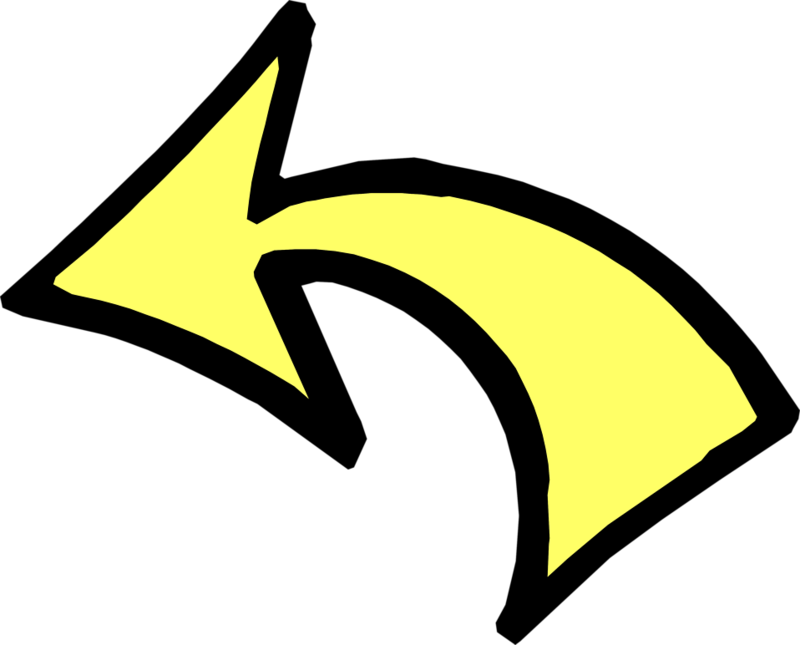
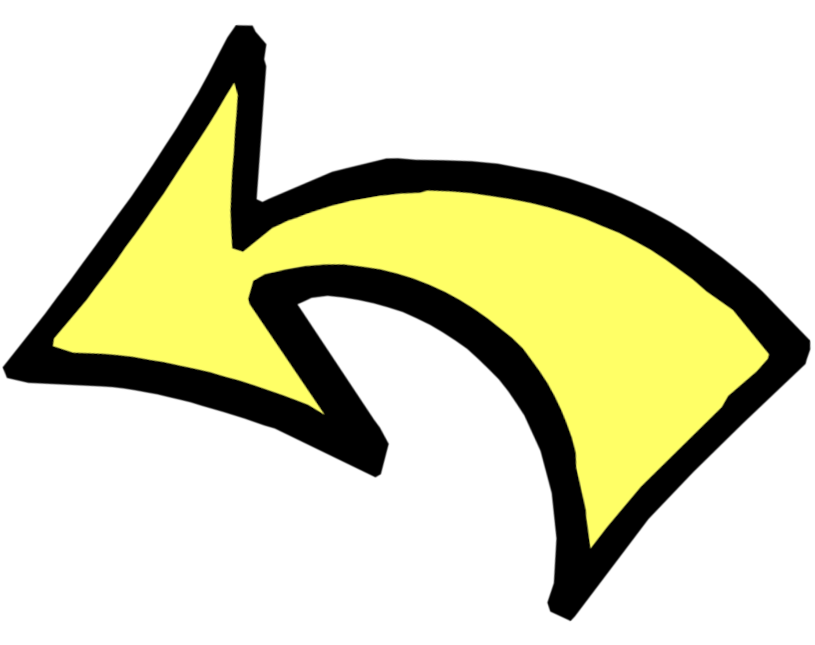
surface level accessibility reqs

diff --git a/angular/src/app/home/home.component.css b/angular/src/app/home/home.component.css
@@ -91,7 +91,8 @@ hr {
     background: url(../../../public/buttons/plants.png) no-repeat center center;
 }
 
-.plants:hover {
+.plants:hover,
+.plants:focus {
     background: url(../../../public/buttons/plants-hover.png) no-repeat center center;
     cursor: pointer;
 }
@@ -100,7 +101,8 @@ hr {
     background: url(../../../public/buttons/herbicide.png) no-repeat center center;
 }
 
-.herbicides:hover {
+.herbicides:hover,
+.herbicides:focus {
     background: url(../../../public/buttons/herbicide-hover.png) no-repeat center center;
     cursor: pointer;
 }
@@ -109,7 +111,8 @@ hr {
     background: url(../../../public/buttons/insects.png) no-repeat center center;
 }
 
-.insects:hover {
+.insects:hover,
+.insects:focus {
     background: url(../../../public/buttons/insects-hover.png) no-repeat center center;
     cursor: pointer;
 }
@@ -118,7 +121,8 @@ hr {
     background: url(../../../public/buttons/insecticide.png) no-repeat center center;
 }
 
-.insecticides:hover {
+.insecticides:hover,
+.insecticides:focus {
     background: url(../../../public/buttons/insecticide-hover.png) no-repeat center center;
     cursor: pointer;
 }
@@ -127,7 +131,8 @@ hr {
     background: url(../../../public/buttons/tools.png) no-repeat center center;
 }
 
-.tools:hover {
+.tools:hover,
+.tools:focus {
     background: url(../../../public/buttons/tools-hover.png) no-repeat center center;
     cursor: pointer;
 }
@@ -136,7 +141,8 @@ hr {
     background: url(../../../public/buttons/maintenance.png) no-repeat center center;
 }
 
-.maintenance:hover {
+.maintenance:hover,
+.maintenance:focus {
     background: url(../../../public/buttons/maintenance-hover.png) no-repeat center center;
     cursor: pointer;
 }

diff --git a/angular/src/app/home/home.component.html b/angular/src/app/home/home.component.html
@@ -4,22 +4,24 @@
 <div class="banner">
 </div>
 <div class="buttons">
-    <div class="button plants" (click)="onClick('plants')" tabindex="0">
+    <div class="button plants" (click)="onClick('plants')" (keyup.enter)="onClick('plants')" tabindex="0">
         <h2 class="button-text">Plants</h2>
     </div>
-    <div class="button herbicides" (click)="onClick('herbicides')" tabindex="0">
+    <div class="button herbicides" (click)="onClick('herbicides')" (keyup.enter)="onClick('herbicides')" tabindex="0">
         <h2 class="button-text">Herbicides</h2>
     </div>
-    <div class="button insects" (click)="onClick('insects')" tabindex="0">
+    <div class="button insects" (click)="onClick('insects')" (keyup.enter)="onClick('insects')" tabindex="0">
         <h2 class="button-text">Insects</h2>
     </div>
-    <div class="button insecticides" (click)="onClick('insecticides')" tabindex="0">
+    <div class="button insecticides" (click)="onClick('insecticides')" (keyup.enter)="onClick('insecticides')"
+        tabindex="0">
         <h2 class="button-text">Insecticides</h2>
     </div>
-    <div class="button maintenance" (click)="onClick('maintenance')" tabindex="0">
+    <div class="button maintenance" (click)="onClick('maintenance')" (keyup.enter)="onClick('maintenance')"
+        tabindex="0">
         <h2 class="button-text">Maintenance</h2>
     </div>
-    <div class="button tools" (click)="onClick('tools')" tabindex="0">
+    <div class="button tools" (click)="onClick('tools')" (keyup.enter)="onClick('tools')" tabindex="0">
         <h2 class="button-text">Tools</h2>
     </div>
 </div>

diff --git a/angular/src/app/pesticide/pesticide.component.html b/angular/src/app/pesticide/pesticide.component.html
@@ -1,5 +1,4 @@
-<img src="left-arrow.png" class="back-arrow" (click)="goBack()" alt="Back">
-
+<img src="left-arrow.png" class="back-arrow" tabindex="0" (click)="goBack()" (keyup.enter)="goBack()" alt="Back">
 
 <ng-container *ngIf="set404">
     <h2>404 Herbicide Not Found</h2>
@@ -12,7 +11,7 @@
 
 <ng-container *ngIf="!set404">
     <h2>{{currPesticide.name}}</h2>
-    <h3>{{currPesticide.taxonomy}}</h3>
+    <h3>{{currPesticide.chemical}}</h3>
     <div class="flex">
         <div class="description" [innerHTML]="currPesticide.description"></div>
         <img src="{{currPesticide.image}}" class="image">
@@ -25,6 +24,10 @@
             <app-rona-button [ronaLink]="currPesticide.ronaLink"></app-rona-button>
             <app-walmart-button [walmartLink]="currPesticide.walmartLink"></app-walmart-button>
         </div>
+    </div>
+
+    <div class="desktop">
+        <h4>Test</h4>
     </div>
 
     <cdk-accordion class="example-accordion">

diff --git a/angular/src/app/footer/footer.component.html b/angular/src/app/footer/footer.component.html
@@ -2,10 +2,10 @@
     <p class="copyright">©2025 Canadian Lawn Book | All rights reserved.</p>
 
     <div class="flex">
-        <p class="item" (click)="onClick('about')">About</p>
+        <p class="item" (click)="onClick('about')" (keyup.enter)="onClick('about')" tabindex="0">About</p>
         <div class="vl"></div>
-        <p class="item" (click)="onClick('contact')">Contact us</p>
+        <p class="item" (click)="onClick('contact')" (keyup.enter)="onClick('contact')" tabindex="0">Contact us</p>
         <div class="vl"></div>
-        <p class="item" (click)="onClick('sitemap')">Sitemap</p>
+        <p class="item" (click)="onClick('sitemap')" (keyup.enter)="onClick('sitemap')" tabindex="0">Sitemap</p>
     </div>
 </div>

diff --git a/angular/src/app/insecticide/insecticide.component.html b/angular/src/app/insecticide/insecticide.component.html
@@ -1,5 +1,4 @@
-<img src="left-arrow.png" class="back-arrow" (click)="goBack()" alt="Back">
-
+<img src="left-arrow.png" class="back-arrow" tabindex="0" (click)="goBack()" (keyup.enter)="goBack()" alt="Back">
 
 <ng-container *ngIf="set404">
     <h2>404 Insecticide Not Found</h2>
@@ -12,7 +11,7 @@
 
 <ng-container *ngIf="!set404">
     <h2>{{currInsecticide.name}}</h2>
-    <h3>{{currInsecticide.taxonomy}}</h3>
+    <h3>{{currInsecticide.chemical}}</h3>
     <div class="flex">
         <div class="description" [innerHTML]="currInsecticide.description"></div>
         <img src="{{currInsecticide.image}}" class="image">

diff --git a/angular/src/app/insecticide-index/insecticide-index.component.html b/angular/src/app/insecticide-index/insecticide-index.component.html
@@ -1,6 +1,7 @@
 <ng-container *ngFor="let insecticide of insecticides">
-    <div class="card" (click)="onCardClick(insecticide)">
-        <img src="{{ insecticide.image }}" alt="{{ insecticide.name }}" class="insecticide-image" />
+    <div class="card" (click)="onCardClick(insecticide)" (keyup.enter)="onCardClick(insecticide)" tabindex="0">
+        <img src="{{ insecticide.image }}" aria-label="" alt="Image of {{ insecticide.name }}"
+            class="insecticide-image" />
 
         <div>
             <h2>{{ insecticide.name }}</h2>

diff --git a/angular/src/app/pesticide-index/pesticide-index.component.html b/angular/src/app/pesticide-index/pesticide-index.component.html
@@ -1,6 +1,6 @@
 <ng-container *ngFor="let pesticide of pesticides">
-    <div class="card" (click)="onCardClick(pesticide)">
-        <img src="{{ pesticide.image }}" alt="{{ pesticide.name }}" class="pesticide-image" />
+    <div class="card" (click)="onCardClick(pesticide)" (keyup.enter)="onCardClick(pesticide)" tabindex="0">
+        <img src="{{ pesticide.image }}" aria-label="" alt="Image of {{ pesticide.name }}" class="pesticide-image" />
 
         <div>
             <h2>{{ pesticide.name }}</h2>

diff --git a/angular/src/app/index/index.component.html b/angular/src/app/index/index.component.html
@@ -1,6 +1,6 @@
 <ng-container *ngFor="let plant of plants">
-    <div class="card" (click)="onCardClick(plant)">
-        <img src="{{ plant.image }}" alt="{{ plant.name }}" class="plant-image" />
+    <div class="card" (click)="onCardClick(plant)" (keyup.enter)="onCardClick(plant)" tabindex="0">
+        <img src="{{ plant.image }}" aria-label="" alt="Image of {{ plant.name }}" class="plant-image" />
         <div>
             <h2>{{ plant.name }}</h2>
             <h3>{{ plant.taxonomy }}</h3>

diff --git a/angular/src/app/pesticide/pesticide.component.css b/angular/src/app/pesticide/pesticide.component.css
@@ -45,7 +45,6 @@ h3 {
     width: 50px;
     height: auto;
     position: absolute;
-    transform: rotate(-10deg);
 }
 
 .back-arrow:hover {
@@ -112,4 +111,16 @@ button {
     display: flex;
     flex-wrap: wrap;
     justify-content: center;
+}
+
+@media screen and (min-width: 1000px) {
+    .example-accordion {
+        display: none;
+    }
+}
+
+@media screen and (max-width: 1000px) {
+    .desktop {
+        display: none;
+    }
 }

diff --git a/angular/src/app/index/index.component.css b/angular/src/app/index/index.component.css
@@ -3,7 +3,8 @@
     display: flex;
 }
 
-.card:hover {
+.card:hover,
+.card:focus {
     background-color: #f0f0f0;
     cursor: pointer;
 }
@@ -29,7 +30,7 @@ h3 {
 }
 
 .description {
-    width: 99%;
+    width: 98.5%;
     font-size: 14pt;
     margin: 0px 0px 5px 10px;
     display: -webkit-box;
@@ -37,7 +38,6 @@ h3 {
     line-clamp: 3;
     -webkit-box-orient: vertical;
     overflow: hidden;
-    padding-right: 100px;
 }
 
 hr {

diff --git a/angular/src/app/tool-index/tool-index.component.css b/angular/src/app/tool-index/tool-index.component.css
@@ -3,7 +3,8 @@
     display: flex;
 }
 
-.card:hover {
+.card:hover,
+.card:focus {
     background-color: #f0f0f0;
     cursor: pointer;
 }
@@ -34,7 +35,7 @@ h3 {
 }
 
 .description {
-    width: 99%;
+    width: 98.5%;
     font-size: 14pt;
     margin: 0px 0px 5px 10px;
     display: -webkit-box;
@@ -42,7 +43,6 @@ h3 {
     line-clamp: 3;
     -webkit-box-orient: vertical;
     overflow: hidden;
-    padding-right: 100px;
 }
 
 hr {

diff --git a/angular/src/app/tool-index/tool-index.component.html b/angular/src/app/tool-index/tool-index.component.html
@@ -1,6 +1,6 @@
 <ng-container *ngFor="let tool of tools">
-    <div class="card" (click)="onCardClick(tool)">
-        <img src="{{ tool.image }}" alt="{{ tool.name }}" />
+    <div class="card" (click)="onCardClick(tool)" (keyup.enter)="onCardClick(tool)" tabindex="0">
+        <img src="{{ tool.image }}" aria-label="" alt="Image of {{ tool.name }}" />
 
         <div>
             <h2>{{ tool.name }}</h2>
